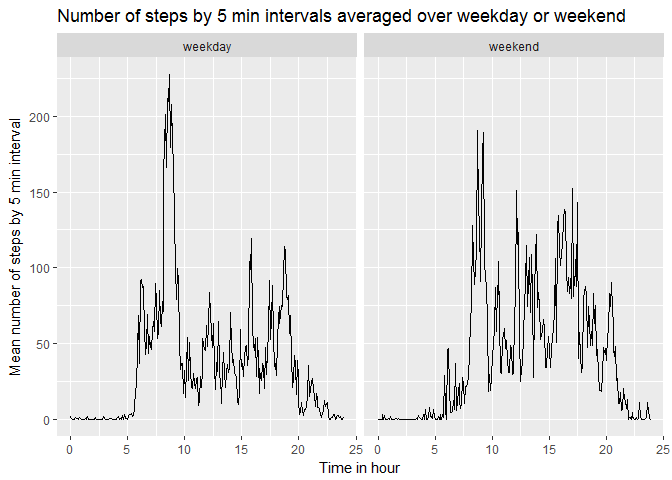
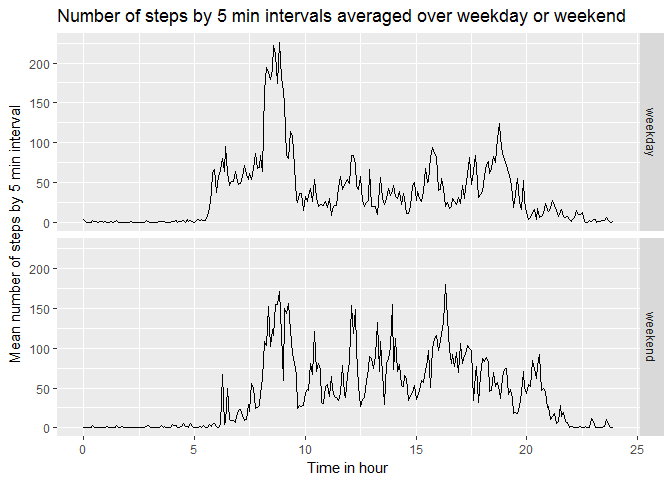
Change display of the last graph of Weekday/Weekdend activity to have panels one above another rather than side by side 170113 10:50 (France)

diff --git a/PA1_template.html b/PA1_template.html
@@ -173,11 +173,11 @@ summary(Daily_steps)</code></pre>
 <pre class="r"><code>hist(Daily_steps$steps,xlab=&quot;Steps per day&quot;,main=&quot;Distribution of Nb of steps per day&quot;,xlim = c(0,22500),breaks = seq(0,22500,by=2500),col=&quot;blue&quot; )</code></pre>
[1 lines of base64/hex data omitted]
 <p>Calculate and report the mean and median of the total number of steps taken per day. Mean Nb of steps per day</p>
-<pre class="r"><code>mean_step &lt;- round(mean(Daily_steps$steps))
+<pre class="r"><code>mean_step &lt;- mean(Daily_steps$steps)
 mean_step</code></pre>
-<pre><code>## [1] 10766</code></pre>
+<pre><code>## [1] 10766.19</code></pre>
 <p>Median Nb of steps per day</p>
-<pre class="r"><code>median_step &lt;- round(median(Daily_steps$steps))
+<pre class="r"><code>median_step &lt;- median(Daily_steps$steps)
 median_step</code></pre>
 <pre><code>## [1] 10765</code></pre>
 </div>
@@ -220,16 +220,16 @@ activity_nona &lt;- cbind(steps,activity_nona)</code></pre>
 <pre class="r"><code>par(mfrow=c(1,2))
 hist(Daily_steps$steps,xlab=&quot;Steps per day&quot;,main=&quot;NO IMPUTATION&quot;,xlim = c(0,22500),ylim=c(0,25),breaks = seq(0,22500,by=2500),col=&quot;blue&quot; )
 hist(Daily_steps_nona$steps,xlab=&quot;Steps per day&quot;,main=&quot;IMPUTATION&quot;,xlim = c(0,22500),ylim=c(0,25),breaks = seq(0,22500,by=2500),col=&quot;blue&quot; )</code></pre>
[2 lines of base64/hex data omitted]
 <p>Calculate and report the mean and median of the total number of steps taken per day</p>
 <p>Mean Nb of steps per day</p>
 <pre class="r"><code>mean_step_nona &lt;- mean(Daily_steps_nona$steps)
 mean_step_nona</code></pre>
-<pre><code>## [1] 10958.44</code></pre>
+<pre><code>## [1] 10869.82</code></pre>
 <p>Median Nb of steps per day</p>
 <pre class="r"><code>median_step_nona &lt;- median(Daily_steps_nona$steps)
 median_step_nona</code></pre>
-<pre><code>## [1] 11162</code></pre>
+<pre><code>## [1] 10847</code></pre>
 <p>The mean and the median are quite the same after imputation.</p>
 <p>Both from summary and plot, we see that this imputation method lead to an increase in the most frequent steps per day with no great modification of the distribution otherwize.</p>
 </div>
@@ -247,8 +247,8 @@ table(activity_nona$weekend)</code></pre>
 <pre class="r"><code>Daily_pattern_week &lt;- aggregate(steps~timemin+weekend,activity_nona,mean)
 library(ggplot2)
 g &lt;- ggplot(Daily_pattern_week,aes(timemin/60,steps))
-g + geom_line() + facet_grid(.~weekend) + labs(x = &quot;Time in hour&quot;,title=&quot;Number of steps by 5 min intervals averaged over weekday or weekend&quot;,y=&quot;Mean number of steps by 5 min interval&quot;)</code></pre>
[1 lines of base64/hex data omitted]
+g + geom_line() + facet_grid(weekend~.) + labs(x = &quot;Time in hour&quot;,title=&quot;Number of steps by 5 min intervals averaged over weekday or weekend&quot;,y=&quot;Mean number of steps by 5 min interval&quot;)</code></pre>
[1 lines of base64/hex data omitted]
 <p>There is a clear difference in the pattern between weekday and weekend. In weekday we see 4 peaks in activity. One around 9 AM (on the way to work?), one around 12:30 (lunchtime?), one around 16:00 (coffee break?) and one around 19:00 (on the way home?).</p>
 <p>In weekend, the data is very noisy and it is much more difficult to draw conclusions.</p>
 </div>

diff --git a/PA1_template.md b/PA1_template.md
@@ -108,18 +108,18 @@ Calculate and report the mean and median of the total number of steps taken per 
 Mean Nb of steps per day
 
 ```r
-mean_step <- round(mean(Daily_steps$steps))
+mean_step <- mean(Daily_steps$steps)
 mean_step
 ```
 
 ```
-## [1] 10766
+## [1] 10766.19
 ```
 
 Median Nb of steps per day
 
 ```r
-median_step <- round(median(Daily_steps$steps))
+median_step <- median(Daily_steps$steps)
 median_step
 ```
 
@@ -223,7 +223,7 @@ mean_step_nona
 ```
 
 ```
-## [1] 10958.44
+## [1] 10869.82
 ```
 
 Median Nb of steps per day
@@ -234,7 +234,7 @@ median_step_nona
 ```
 
 ```
-## [1] 11162
+## [1] 10847
 ```
 
 The mean and the median are quite the same after imputation.
@@ -269,7 +269,7 @@ Make a panel plot containing a time series plot (i.e. type = "l") of the 5-minut
 Daily_pattern_week <- aggregate(steps~timemin+weekend,activity_nona,mean)
 library(ggplot2)
 g <- ggplot(Daily_pattern_week,aes(timemin/60,steps))
-g + geom_line() + facet_grid(.~weekend) + labs(x = "Time in hour",title="Number of steps by 5 min intervals averaged over weekday or weekend",y="Mean number of steps by 5 min interval")
+g + geom_line() + facet_grid(weekend~.) + labs(x = "Time in hour",title="Number of steps by 5 min intervals averaged over weekday or weekend",y="Mean number of steps by 5 min interval")
 ```
 
 ![](PA1_template_files/figure-html/unnamed-chunk-22-1.png)<!-- -->
